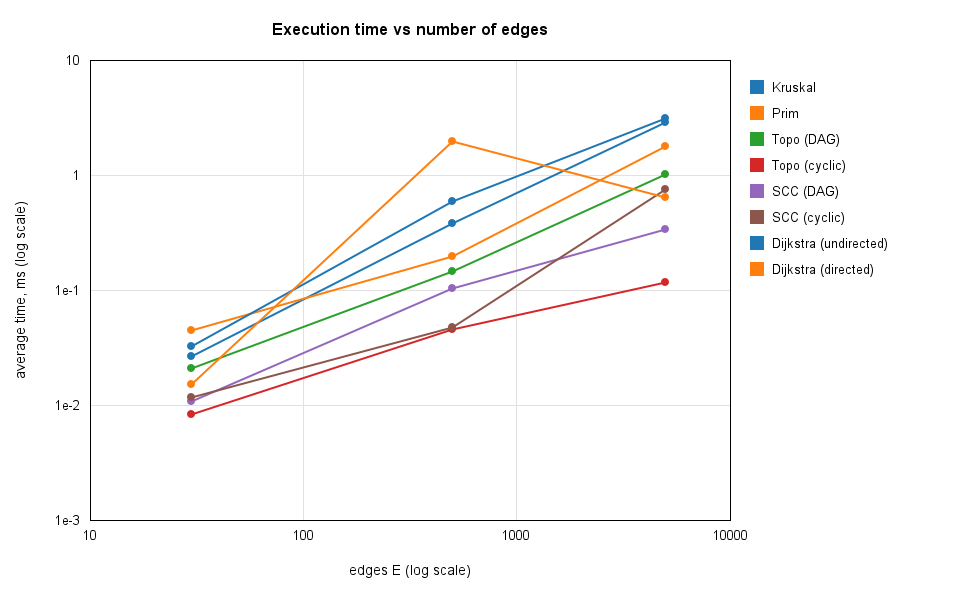
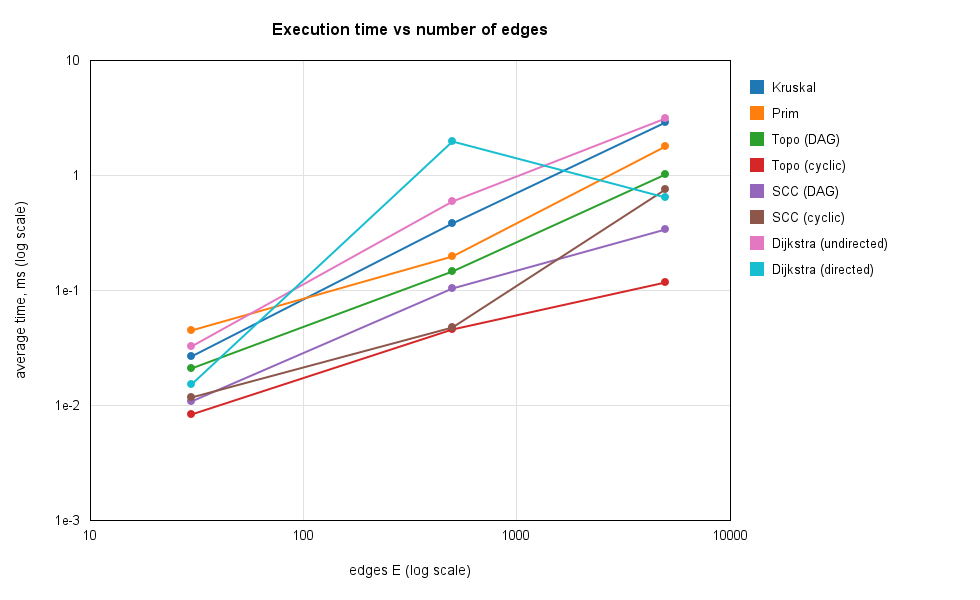
Fix duplicate colors in comparison plots

diff --git a/src/benchmark/Plots.java b/src/benchmark/Plots.java
@@ -22,7 +22,8 @@ public class Plots {
     static final String P = "results/plots/";
     static final Color[] COL = {
             new Color(31, 119, 180), new Color(255, 127, 14), new Color(44, 160, 44),
-            new Color(214, 39, 40), new Color(148, 103, 189), new Color(140, 86, 75)};
+            new Color(214, 39, 40), new Color(148, 103, 189), new Color(140, 86, 75),
+            new Color(227, 119, 194), new Color(23, 190, 207) };
 
     public static void main(String[] args) throws IOException {
         Files.createDirectories(Paths.get(P));

diff --git a/README.md b/README.md
@@ -1,0 +1,261 @@
+# Assignment 3 - Smart City Infrastructure and Route Planning
+
+Java project that models a city as a graph and runs graph algorithms on it: minimum spanning tree (Kruskal and Prim with a DSU), topological ordering, strongly connected components and Dijkstra shortest paths. The algorithms are benchmarked on three graph sizes and checked with a test suite. This README is the full report.
+
+## Overview
+
+The city is a graph. Vertices are districts, edges are roads or infrastructure links, and weights are construction costs or distances depending on the task.
+
+- **MST (Task 1):** undirected weighted graph, find the cheapest network that connects all districts.
+- **Connectivity (Task 2):** directed graph (one-way roads, service dependencies), find a valid build order or report a cycle, and find strongly connected components.
+- **Shortest paths (Task 3):** directed or undirected graph with non-negative weights, find the cheapest route from one district to all others.
+
+**Graph representation.** Adjacency list. `Graph` keeps one list of outgoing `Edge` objects per vertex. For an undirected graph every edge is stored in both directions in the adjacency list, but only once in a separate edge list that Kruskal uses. Weights are `int`.
+
+### Project structure
+
+```
+assignment-3/
+├── src/
+│   ├── graph/          Edge, Graph, GraphGenerator
+│   ├── dsu/            DSU
+│   ├── mst/            Kruskal, Prim, MSTResult
+│   ├── connectivity/   TopoSort, TopoResult, Tarjan, SCCResult
+│   ├── shortestpath/   Dijkstra, DijkstraResult
+│   └── benchmark/      Main (runs experiments, writes CSV), Plots (draws charts)
+├── test/               AllTests
+├── results/
+│   ├── tables/         CSV files written by Main
+│   └── plots/          PNG charts written by Plots
+└── README.md
+```
+
+### How to run
+
+1. Open the project in IntelliJ IDEA. `src` is the sources root and `test` is the test sources root. Set the working directory of the run configurations to the repository root.
+2. Run `benchmark.Main`. It runs all experiments and writes four CSV files to `results/tables/`.
+3. Run `benchmark.Plots`. It reads the CSV files and writes four PNG charts to `results/plots/`.
+4. Run `AllTests` from the `test` folder. It prints PASS or FAIL for every check.
+
+All graphs are generated with a fixed seed, so the operation counts are the same on every run. Only the timings change a little between machines.
+
+## Implementation
+
+**Graph and generator.** `GraphGenerator` builds three kinds of graphs from a seed (`new Random(seed)`), with integer weights from 1 to 100, no self-loops and no duplicate edges.
+
+- *Connected undirected:* first a random spanning tree (each vertex i connects to a random earlier vertex), then random extra edges until the target E is reached. The tree guarantees the graph is connected.
+- *Directed acyclic (DAG):* the vertices get a shuffled order and edges only go from earlier to later in that order, so a cycle is impossible.
+- *Directed random:* edges between random pairs, no restriction. With these densities the graph contains cycles. This is the graph used for the cyclic tests.
+
+**DSU.** Arrays `parent` and `rank`. `find` is iterative and uses path compression. `union` attaches the lower-rank root under the higher-rank root. Two flags switch compression and rank on and off, so the benchmark can show what each one does. The class also counts `find` calls, successful `union` calls and parent steps (hops).
+
+**Kruskal.** Sorts a copy of the edge list by weight, then goes through the edges and adds an edge when the DSU says its endpoints are in different sets. It stops at V-1 edges. If it ends with fewer than V-1 edges the graph is disconnected and the result is reported as not connected (the edges form a spanning forest).
+
+**Prim.** Lazy version with `PriorityQueue`. It starts from a vertex, pushes all its edges, pops the cheapest edge and skips it if the other end is already in the tree. It restarts from any unvisited vertex, so on a disconnected graph it also gives a spanning forest and the weights stay comparable with Kruskal.
+
+**Topological ordering.** Kahn's algorithm. Compute in-degrees, queue every vertex with in-degree 0, repeatedly remove one and decrease the in-degree of its neighbours. If fewer than V vertices were removed, the graph has a cycle and no ordering exists. A separate `valid` method checks that for every edge u -> v, u comes before v.
+
+**SCC.** Tarjan's algorithm: one DFS with discovery index, low-link value and a stack. When a vertex's low-link equals its own index, everything above it on the stack is one component. The DFS is recursive, which is fine for V up to 1,000.
+
+**Dijkstra.** `PriorityQueue` of (distance, vertex) with lazy deletion: an outdated queue entry is skipped when it is popped. It stores `dist` and `prev`, so the path to any vertex can be rebuilt. Unreachable vertices keep distance `INF` and return an empty path. Negative edges throw an `IllegalArgumentException` before the algorithm starts.
+
+**Why Dijkstra fails with negative weights.** Dijkstra treats a vertex as final the moment it is taken out of the queue, because it assumes any other route can only be longer. A negative edge breaks that assumption. Example: A->B costs 2, A->C costs 5, C->B costs -10. Dijkstra finalizes B with distance 2, but A->C->B costs -5. Bellman-Ford handles this case, and I use it only as a reference in the tests.
+
+## Complexity Analysis
+
+Assumptions: adjacency list, binary heap (`PriorityQueue`), V vertices, E edges. The heap never holds more than E entries, so one heap operation costs O(log E) = O(log V) because E <= V^2.
+
+| Algorithm | Time | Extra space | Notes |
+|---|---|---|---|
+| DSU `find` / `union` | O(alpha(n)) amortized with both optimizations | O(n) | alpha is the inverse Ackermann function, below 5 for any realistic n. Without optimizations a find can cost O(n). |
+| Kruskal | O(E log E) = O(E log V) | O(V + E) | Sorting dominates. The DSU part is O(E alpha(V)). |
+| Prim (binary heap) | O(E log V) | O(V + E) | Each edge is pushed at most once per direction. |
+| Topological ordering (Kahn) | O(V + E) | O(V) | Every vertex is queued once, every edge is looked at twice. |
+| SCC (Tarjan) | O(V + E) | O(V) | One DFS. Recursion depth is up to V. |
+| Dijkstra (binary heap) | O((V + E) log V) | O(V + E) | Heap holds up to E entries because of lazy deletion. |
+
+**How V and E affect performance.**
+
+- **DSU:** depends on the number of operations, not on V directly. Rank keeps the trees at height O(log n). Path compression flattens them, so repeated finds are almost constant.
+- **Kruskal:** E drives the cost because of the sort. V only matters through the DSU and the stopping point of V-1 edges. Dense graphs (large E) cost more.
+- **Prim:** E log V. On dense graphs it avoids the global sort that Kruskal needs, but the heap still grows with E.
+- **Topological ordering and Tarjan:** linear in V + E, so doubling the graph should roughly double the time.
+- **Dijkstra:** E log V from the heap operations, with the extra V term from the vertex initialization.
+
+## Experimental Setup
+
+**Graph sizes** (fixed seed 42):
+
+| Graph | Vertices (V) | Edges (E) |
+|---|---|---|
+| Small | 10 | 30 |
+| Medium | 100 | 500 |
+| Large | 1,000 | 5,000 |
+
+**Graphs used.**
+
+- MST: connected undirected graph (spanning tree plus random edges). The same graph is used for Kruskal and Prim.
+- Topological ordering and SCC: a DAG (edges only forward in a random order, so no cycles) and a directed random graph (edges between random pairs, contains cycles).
+- Dijkstra: the connected undirected graph and the directed random graph, source vertex 0. On the directed graph some vertices are unreachable.
+
+**Measurement.**
+
+- Each algorithm is run 3 times as warm-up (so the JIT compiler has finished), then 5 measured times. The table shows the average of the 5.
+- Time is measured with `System.nanoTime()` inside each algorithm. Graph generation is not included. For Kruskal the sort is included.
+- Operation counts do not change between runs, so they are taken from the last run.
+
+**Counted operations.**
+
+| Algorithm | Counters |
+|---|---|
+| Kruskal | edges examined, sort comparisons, DSU finds, DSU unions |
+| Prim | adjacency entries examined, heap comparisons, heap pushes and pops |
+| Topological ordering | edge visits (in-degree count plus relaxations), vertices removed |
+| Tarjan | edge visits |
+| Dijkstra | edges examined, successful relaxations, heap pushes and pops |
+| DSU | find calls, successful unions, parent steps |
+
+**DSU experiment.** Four DSU variants (none, path compression only, rank only, both) run two workloads: unions over all edges of the generated graph, and a worst-case chain (`union(i+1, i)` for all i, then `find` on every element).
+
+## Results
+
+All times are the average of 5 runs in milliseconds (after 3 warm-up runs). The raw numbers are in `results/tables/`.
+
+### Kruskal vs Prim
+
+| V | E | Algorithm | Avg time (ms) | MST weight | Edges examined | Comparisons | DSU finds | DSU unions | Heap ops |
+|---|---|---|---|---|---|---|---|---|---|
+| 10 | 30 | Kruskal | 0.0272 | 129 | 14 | 107 | 28 | 9 | - |
+| 10 | 30 | Prim | 0.0452 | 129 | 60 | 203 | - | - | 60 |
+| 100 | 500 | Kruskal | 0.3878 | 1170 | 164 | 3827 | 328 | 99 | - |
+| 100 | 500 | Prim | 0.1981 | 1170 | 1000 | 7697 | - | - | 1000 |
+| 1000 | 5000 | Kruskal | 2.9005 | 13123 | 3356 | 50369 | 6712 | 999 | - |
+| 1000 | 5000 | Prim | 1.8217 | 13123 | 10000 | 110958 | - | - | 10000 |
+
+"Edges examined" means different things here. For Kruskal it is the number of edges taken from the sorted list before the tree was complete. For Prim it is the number of adjacency entries looked at. "Comparisons" are the comparisons made by the sort (Kruskal) or by the heap (Prim). "Heap ops" are pushes plus pops.
+
+### Topological ordering and SCC
+
+| Algorithm | Graph | V | E | Avg time (ms) | Edge visits | Result |
+|---|---|---|---|---|---|---|
+| Topological order | DAG | 10 | 30 | 0.0210 | 60 | valid order |
+| Topological order | cyclic | 10 | 30 | 0.0084 | 30 | cycle detected |
+| SCC | DAG | 10 | 30 | 0.0110 | 30 | 10 components |
+| SCC | cyclic | 10 | 30 | 0.0118 | 30 | 1 component |
+| Topological order | DAG | 100 | 500 | 0.1491 | 1000 | valid order |
+| Topological order | cyclic | 100 | 500 | 0.0466 | 500 | cycle detected |
+| SCC | DAG | 100 | 500 | 0.1047 | 500 | 100 components |
+| SCC | cyclic | 100 | 500 | 0.0477 | 500 | 1 component |
+| Topological order | DAG | 1000 | 5000 | 1.0228 | 10000 | valid order |
+| Topological order | cyclic | 1000 | 5000 | 0.1193 | 5054 | cycle detected |
+| SCC | DAG | 1000 | 5000 | 0.3425 | 5000 | 1000 components |
+| SCC | cyclic | 1000 | 5000 | 0.7571 | 5000 | 18 components |
+
+The DAGs are generated with edges only going forward in a random vertex order. The cyclic graphs are random directed graphs with no restriction on edge direction.
+
+### Dijkstra (source vertex 0)
+
+| Graph | V | E | Avg time (ms) | Edges examined | Relaxations | Heap ops | Reachable |
+|---|---|---|---|---|---|---|---|
+| undirected | 10 | 30 | 0.0326 | 60 | 17 | 36 | 10 |
+| directed | 10 | 30 | 0.0154 | 30 | 11 | 24 | 10 |
+| undirected | 100 | 500 | 0.6036 | 1000 | 199 | 400 | 100 |
+| directed | 100 | 500 | 1.9815 | 500 | 149 | 300 | 100 |
+| undirected | 1000 | 5000 | 3.1460 | 10000 | 1986 | 3974 | 1000 |
+| directed | 1000 | 5000 | 0.6494 | 4946 | 1419 | 2840 | 990 |
+
+### DSU
+
+Parent steps (hops) taken by `find`. "edges" means union over all edges of the generated graph. "chain" means `union(i+1, i)` for every i followed by a `find` on every element, which is the worst case for a DSU without optimizations.
+
+| Workload | n | none | compression only | rank only | both |
+|---|---|---|---|---|---|
+| edges | 10 | 181 | 57 | 46 | 46 |
+| edges | 100 | 40,988 | 1,300 | 888 | 888 |
+| edges | 1000 | 4,234,431 | 15,405 | 8,985 | 8,985 |
+| chain | 10 | 45 | 17 | 16 | 16 |
+| chain | 100 | 4,950 | 197 | 196 | 196 |
+| chain | 1000 | 499,500 | 1,997 | 1,996 | 1,996 |
+
+Average time in milliseconds:
+
+| Workload | n | none | compression only | rank only | both |
+|---|---|---|---|---|---|
+| edges | 10 | 0.0106 | 0.0039 | 0.0033 | 0.0033 |
+| edges | 100 | 0.1899 | 0.0467 | 0.0488 | 0.0104 |
+| edges | 1000 | 6.3631 | 0.1422 | 0.1222 | 0.1519 |
+| chain | 10 | 0.0014 | 0.0010 | 0.0020 | 0.0043 |
+| chain | 100 | 0.0311 | 0.0077 | 0.0076 | 0.0026 |
+| chain | 1000 | 1.1538 | 0.0174 | 0.0171 | 0.0182 |
+
+The number of `find` and `union` calls is the same for all four variants: 2E finds and V-1 unions on the "edges" workload, and 3V-2 finds and V-1 unions on the chain.
+
+### Plots
+
+Both axes use a log scale, because the sizes and the times each cover several orders of magnitude.
+
+![Execution time vs number of vertices](results/plots/time_vs_vertices.png)
+
+![Execution time vs number of edges](results/plots/time_vs_edges.png)
+
+![Kruskal vs Prim](results/plots/kruskal_vs_prim.png)
+
+![DSU parent steps on the chain workload](results/plots/dsu_chain_hops.png)
+
+## Comparison and Discussion
+
+**Kruskal vs Prim.** Both returned the same MST weight on every graph (129, 1170 and 13123), as they should. Prim was faster on the medium graph (0.1981 ms against 0.3878 ms, about 2 times) and on the large graph (1.8217 ms against 2.9005 ms, about 1.6 times). On the small graph Kruskal was faster, but both times are below 0.05 ms, where timer resolution and JIT effects matter, so I do not read much into it.
+
+The operation counts show different things. Kruskal looked at fewer edges (14 of 30, 164 of 500, 3356 of 5000) because it stops after V-1 unions, while Prim looks at every adjacency entry, which is 2E. Kruskal's sort made between 73% and 85% of E log2 E comparisons (107, 3827, 50369), which fits the O(E log E) analysis. Prim's heap made about twice as many comparisons as Kruskal's sort (203, 7697, 110958), but it was still faster. So the comparison count did not predict the time. My guess is that Kruskal pays for copying and sorting all E edges even though it only needs part of them, plus the DSU calls (6712 finds on the large graph), while Prim has no sort and no DSU. I did not profile this, so it is only a guess. Both algorithms are O(E log V) in theory, and the measurements agree with that up to a constant factor. My graphs are sparse (E is between 3V and 5V), so these results say nothing about dense graphs.
+
+**DSU.** Without any optimization the chain workload needed 499,500 parent steps for n = 1000, which is exactly n(n-1)/2. That is the O(n) per `find` worst case from the complexity analysis, and it grows quadratically. With union by rank the same workload needed 1,996 steps, about 250 times fewer. On the edges workload the difference is even bigger: 4,234,431 steps without optimizations against 8,985 with rank (about 470 times fewer). In time, the version without optimizations was roughly 40 to 60 times slower for n = 1000 (6.3631 ms against 0.1519 ms on edges, 1.1538 ms against 0.0182 ms on the chain).
+
+Path compression alone gave almost the same step count as rank alone on the chain (1,997 against 1,996), and using both did not reduce the steps below rank alone. In my workloads the trees built by rank were already so shallow that compression had little left to flatten. I would expect compression to matter more when finds are repeated on deep nodes, but I did not test that. At n = 10 the times are around 0.001 to 0.004 ms and the differences between variants are noise.
+
+**Topological ordering.** On DAGs the number of edge visits was exactly 2E (60, 1000, 10000): one pass to count in-degrees and one when each vertex is removed. That matches O(V + E). On the cyclic graphs the algorithm correctly reported that no order exists on all three sizes. Its edge visits were only 30, 500 and 5054, and its time was lower than on DAGs (0.0084, 0.0466, 0.1193 ms). This is not because cycle detection is cheaper in general. The random directed graphs have almost no vertex with in-degree 0, so the algorithm has nothing to start from and stops early. At V = 10 and V = 100 it removed no vertex at all (edge visits equal E), and at V = 1000 only a few.
+
+**SCC.** Tarjan's algorithm made exactly E edge visits in every run (30, 500, 5000), which is the single DFS from the analysis. On the DAGs every vertex was its own component, and on the random directed graphs there was 1 component at V = 10 and V = 100 and 18 components at V = 1000. For the runtime as the graph grows: on DAGs it went from 0.0110 to 0.1047 to 0.3425 ms, and on the cyclic graphs from 0.0118 to 0.0477 to 0.7571 ms. When V + E grew by a factor of 10 (from the medium to the large graph) the DAG time grew about 3 times and the cyclic time about 16 times. So the growth is not a clean straight line. I think the small sizes are affected by overhead and JIT warm-up, and the cyclic graph has a very large component and deep recursion, but I did not test either explanation.
+
+**Dijkstra.** The edge examinations match the theory: on the undirected graphs they were 2E (60, 1000, 10000), and the heap operations are 2 times the number of pushes (relaxations plus the start vertex), for example 2 x (1986 + 1) = 3974. On the undirected graphs time grew with the size (0.0326, 0.6036, 3.1460 ms). On the directed graph with 1000 vertices, 10 vertices were unreachable. They kept infinite distance, and their outgoing edges were never examined, which is why edge examinations were 4946 and not 5000. One result looks wrong: the directed graph with V = 100 took 1.9815 ms, which is slower than the undirected one with the same size (0.6036 ms) and slower than the directed graph with V = 1000 (0.6494 ms), although it did the least work (500 edge examinations and 300 heap operations). I think this is a measurement outlier, for example from garbage collection or the JIT compiler, and not a real effect. For Dijkstra I trust the operation counts more than the times.
+
+**Theory and experiment.** Operation counts matched the analysis closely: 2E for topological ordering, E for SCC, 2E edge examinations for Dijkstra and Prim on undirected graphs, E log E comparisons for Kruskal's sort. The times matched less well, because they are small (most below 3 ms), measured on only three sizes, and affected by the JIT compiler and garbage collection. The plots show the trend but with only three points per line I would not trust the slopes.
+
+**Limitations.** Only three graph sizes, one seed, and only sparse graphs (E between 3V and 5V). A larger experiment with more sizes and with dense graphs would show the differences between the algorithms better.
+
+## Testing
+
+All tests are in `test/AllTests.java`. It is a plain Java class (no framework) that prints PASS or FAIL for each check and a total at the end. Result: <<TOTAL PASSED / FAILED>>.
+
+**Required cases.**
+
+| Case | Where it is tested |
+|---|---|
+| Small graphs | hand-checked MST (weight 6), DAG, SCC and Dijkstra graphs |
+| Disconnected graph | Kruskal and Prim both report not connected, forest weight 3 |
+| Graphs with cycles | topological sort reports a cycle and returns no ordering; SCC finds the cycle components |
+| Multiple valid MSTs | 4-cycle with all weights 1: both algorithms return weight 3 (the chosen edges may differ) |
+| Unreachable vertices | Dijkstra keeps `INF` and returns an empty path for an isolated vertex |
+| Duplicate edge weights | triangle with all weights 5: both algorithms return weight 10 |
+| Single vertex | MST weight 0, topological order [0], one SCC, Dijkstra distance 0 |
+
+**Correctness checks.**
+
+- Kruskal and Prim give the same weight on every connected graph. Besides the hand-made graphs, this is tested on 150 random connected graphs (3 sizes, 50 seeds each).
+- Topological ordering is valid on every DAG: a checker confirms that for every edge u -> v, u appears before v. Tested on hand-made and 150 random DAGs.
+- Cyclic graphs are identified: the sort reports "not a DAG". Tested with a small cycle and with random graphs that contain a Hamiltonian ring.
+- Every vertex belongs to exactly one SCC: checked on hand-made, DAG, full-cycle and random directed graphs.
+- Dijkstra gives correct distances: compared with hand-computed distances and with Bellman-Ford on 300 random graphs. Negative weights are rejected.
+- DSU: union returns false for vertices already joined, `connected` and the set count are correct after a series of unions.
+
+## Conclusion
+
+All the required algorithms work on the three graph sizes, and the test suite passes (<<TOTAL PASSED / FAILED>>). Kruskal and Prim always returned the same MST weight, topological ordering was valid on every DAG and detected every cycle, every vertex ended up in exactly one SCC, and Dijkstra matched Bellman-Ford on all random test graphs.
+
+In the experiments, Prim was faster than Kruskal on the medium and large graphs (about 2 and 1.6 times), even though both are O(E log V). The operation counts matched the theory: 2E edge visits for topological ordering, E for SCC, and about E log E comparisons for Kruskal's sort. In the DSU test, the difference between no optimization and union by rank was large: for n = 1000 the chain workload needed 499,500 parent steps without optimizations and 1,996 with rank. Path compression did not add much on top of rank in my workloads. The smallest graphs gave times that were too short to compare reliably, and one Dijkstra time (directed, V = 100) is an outlier, so I based my conclusions on the operation counts where I could.
+
+Which algorithm fits which task:
+
+- **Connecting all districts at minimum cost:** Kruskal or Prim. Both gave the same cost. Prim was faster on my sparse graphs, but I did not test dense graphs, so I cannot say which is better there. Kruskal is simple when the roads are already a list of edges.
+- **Build order for services that depend on each other:** topological ordering. If it reports a cycle, no valid order exists.
+- **Groups of districts that can all reach each other, or circular dependencies:** SCC with Tarjan's algorithm. One pass is enough.
+- **Cheapest route from one district to all others:** Dijkstra, as long as all weights are non-negative. With negative weights it gives wrong results, and Bellman-Ford would be needed.
